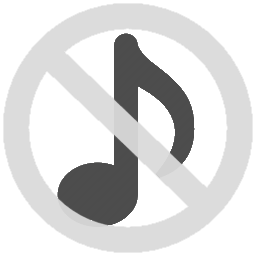
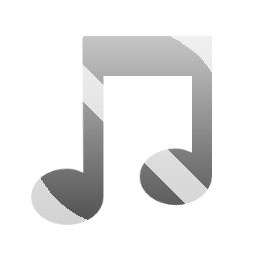
Ajustes Diversos: Imagens Novas, Inclusao de Descrição nos Conteúdos, etc...

diff --git a/Reuniao/Windows/Principal.xaml b/Reuniao/Windows/Principal.xaml
@@ -91,5 +91,32 @@
             </Border>
 
         </Grid>
+
+        <Grid x:Name="gridDescricaoConteudo" Visibility="Collapsed">
+
+            <Border BorderBrush="Gray" BorderThickness="1" />
+            <Grid Background="LightGray" Opacity="0.9" />
+
+            <Border Width="610" Height="120" BorderBrush="Black" BorderThickness="1" Background="White" HorizontalAlignment="Center" VerticalAlignment="Center" />
+            
+            <Grid >
+                <Grid.RowDefinitions>
+                    <RowDefinition />
+                    <RowDefinition Height="30" />
+                    <RowDefinition />
+                </Grid.RowDefinitions>
+                <Grid.ColumnDefinitions>
+                    <ColumnDefinition Width="150" />
+                    <ColumnDefinition Width="*" />
+                    <ColumnDefinition Width="150" />
+                </Grid.ColumnDefinitions>
+                <TextBlock Grid.Row="0" Grid.Column="1" VerticalAlignment="Bottom" Margin="0,0,0,3" FontSize="15" FontWeight="SemiBold" Text="Insira uma Descrição para o Conteudo Inserido:" />
+                <TextBox x:Name="txtDescricaoConteudo" Grid.Row="1" Grid.Column="1" VerticalAlignment="Top" Height="25" FontSize="16" TextAlignment="Center"></TextBox>
+                <Button x:Name="btnConfirmarDescricaoConteudo" Grid.Row="2" Grid.Column="1" HorizontalAlignment="Right" VerticalAlignment="Top" Margin="0,3,0,0" Padding="5" Content="Confirmar" Click="btnConfirmarDescricaoConteudo_Click" />
+            </Grid>
+            
+        </Grid>
+
     </Grid>
+
 </Window>

diff --git a/Reuniao/UserControls/ucConteudo.xaml b/Reuniao/UserControls/ucConteudo.xaml
@@ -55,7 +55,7 @@
         <Border x:Name="gridVideoThumb" BorderBrush="LightGray" BorderThickness="1" Visibility="Hidden">
             <Grid>
                 <Image x:Name="videoThumb" Source="..\Imagens\Thumbs\Video.png" Stretch="Uniform" MaxHeight="200" MaxWidth="200"></Image>
-                <Image x:Name="videoThumbErro" Source="..\Imagens\Thumbs\videoInvalido.png" Stretch="UniformToFill" Visibility="Hidden"/>
+                <Image x:Name="videoThumbErro" Source="..\Imagens\Thumbs\videoInvalido.png" Stretch="Uniform" Visibility="Hidden" />
             </Grid>
         </Border>
         <!-- Video -->
@@ -64,7 +64,7 @@
         <Border x:Name="gridAudioThumb" BorderBrush="LightGray" BorderThickness="1" Visibility="Hidden">
             <Grid >
                 <Image x:Name="audioThumb" Source="..\Imagens\Thumbs\audio.png" Stretch="UniformToFill"></Image>
-                <Image x:Name="audioThumbErro" Source="..\Imagens\Thumbs\audioInvalido.png" Stretch="Uniform" MaxHeight="100" MaxWidth="100" HorizontalAlignment="Center" VerticalAlignment="Center" Visibility="Hidden"/>
+                <Image x:Name="audioThumbErro" Source="..\Imagens\Thumbs\audioInvalido.png" Stretch="Uniform" Visibility="Hidden" />
                 <MediaElement x:Name="meAudio" Visibility="Hidden" />
             </Grid>
         </Border>

diff --git a/Reuniao/Windows/Principal.xaml.cs b/Reuniao/Windows/Principal.xaml.cs
@@ -12,6 +12,8 @@ namespace Reuniao
     {
         #region Propriedades e Atributos
 
+        private DataBase.Reuniao objAtual = null;
+
         #endregion
 
         #region Contrutor Lógico
@@ -104,6 +106,16 @@ namespace Reuniao
             this.GerenciaMenu();
         }
 
+        private void btnConfirmarDescricaoConteudo_Click(object sender, RoutedEventArgs e)
+        {
+            objAtual.Descricao = txtDescricaoConteudo.Text.Trim();
+            new SQLReunioes().Alterar(objAtual);
+
+            lvQuadros.ItemsSource = new SQLReunioes().Listar((DateTime)objAtual.DataReuniao);
+
+            gridDescricaoConteudo.Visibility = Visibility.Hidden;
+        }
+
         private void cbiDataReunioes_SelectionChanged(object sender, SelectionChangedEventArgs e)
         {
             try
@@ -161,10 +173,7 @@ namespace Reuniao
                 {
                     File.Copy(dlg.FileName, string.Format(@"{0}\{1}", Helper.PathVideos, Path.GetFileName(dlg.FileName)), true);
 
-                    //if (MessageBox.Show("Deseja inserir uma ?", "Atenção", MessageBoxButton.YesNo, MessageBoxImage.Question) == MessageBoxResult.Yes)
-                    //    descricao = FileVersionInfo.GetVersionInfo(dlg.FileName).FileDescription;
-
-                    new SQLReunioes().Adicionar(new DataBase.Reuniao()
+                    objAtual = new SQLReunioes().Adicionar(new DataBase.Reuniao()
                     {
                         DataReuniao = dataSelecionada,
                         Tipo = "VIDEO",
@@ -172,6 +181,10 @@ namespace Reuniao
                     });
 
                     lvQuadros.ItemsSource = new SQLReunioes().Listar(dataSelecionada);
+
+                    txtDescricaoConteudo.Text = Path.GetFileNameWithoutExtension(dlg.FileName);
+                    gridDescricaoConteudo.Visibility = Visibility.Visible;
+                    txtDescricaoConteudo.Focus();
                 }
             }
             catch (Exception ex)
@@ -197,7 +210,7 @@ namespace Reuniao
                 {
                     File.Copy(dlg.FileName, string.Format(@"{0}\{1}", Helper.PathAudios, Path.GetFileName(dlg.FileName)), true);
 
-                    new SQLReunioes().Adicionar(new DataBase.Reuniao()
+                    objAtual = new SQLReunioes().Adicionar(new DataBase.Reuniao()
                     {
                         DataReuniao = dataSelecionada,
                         Tipo = "AUDIO",
@@ -205,6 +218,10 @@ namespace Reuniao
                     });
 
                     lvQuadros.ItemsSource = new SQLReunioes().Listar(dataSelecionada);
+
+                    txtDescricaoConteudo.Text = Path.GetFileNameWithoutExtension(dlg.FileName);
+                    gridDescricaoConteudo.Visibility = Visibility.Visible;
+                    txtDescricaoConteudo.Focus();
                 }
             }
             catch (Exception ex)
@@ -230,7 +247,7 @@ namespace Reuniao
                 {
                     File.Copy(dlg.FileName, string.Format(@"{0}\{1}", Helper.PathImagens, Path.GetFileName(dlg.FileName)), true);
 
-                    new SQLReunioes().Adicionar(new DataBase.Reuniao()
+                    objAtual = new SQLReunioes().Adicionar(new DataBase.Reuniao()
                     {
                         DataReuniao = dataSelecionada,
                         Tipo = "IMAGEM",
@@ -238,6 +255,10 @@ namespace Reuniao
                     });
 
                     lvQuadros.ItemsSource = new SQLReunioes().Listar(dataSelecionada);
+
+                    txtDescricaoConteudo.Text = Path.GetFileNameWithoutExtension(dlg.FileName);
+                    gridDescricaoConteudo.Visibility = Visibility.Visible;
+                    txtDescricaoConteudo.Focus();
                 }
             }
             catch (Exception ex)

diff --git a/Reuniao/UserControls/ucConteudo.xaml.cs b/Reuniao/UserControls/ucConteudo.xaml.cs
@@ -129,13 +129,16 @@ namespace Reuniao
                 if (!File.Exists(pathArquivo))
                 {
                     videoThumb.Visibility = System.Windows.Visibility.Collapsed;
+                    videoWatermark.Visibility = System.Windows.Visibility.Collapsed;
+
+                    gridVideoThumb.Visibility = System.Windows.Visibility.Visible;
                     videoThumbErro.Visibility = System.Windows.Visibility.Visible;
 
                     this.conteudoIndisponivel = true;
                     return;
                 }
 
-                this.ToolTip = nome;
+                this.ToolTip = this.Conteudo.Descricao;
 
                 if (this.ConteudoPrincipal)
                 {
@@ -174,7 +177,7 @@ namespace Reuniao
                     return;
                 }
 
-                this.ToolTip = nome;
+                this.ToolTip = this.Conteudo.Descricao;
 
                 if (this.ConteudoPrincipal)
                 {
@@ -202,7 +205,17 @@ namespace Reuniao
                     return;
                 }
 
-                ibImagem.Source = new BitmapImage(new Uri(pathArquivo));
+                this.ToolTip = this.Conteudo.Descricao;
+
+                //Armazena a Imagem em Memória para que o Sistema permita que se apague ela depois
+                BitmapImage biImagem = new BitmapImage();
+                biImagem.BeginInit();
+                biImagem.CacheOption = BitmapCacheOption.OnLoad;
+                biImagem.UriSource = new Uri(pathArquivo);
+                biImagem.EndInit();
+                //
+
+                ibImagem.Source = biImagem;
             }
             catch (Exception ex)
             {
@@ -297,18 +310,24 @@ namespace Reuniao
                         break;
                 }
 
-                if (this.Conteudo.Reproduzido)
-                {
-                    this.gridInfoReproduzido.Visibility = Visibility.Visible;
-                    this.miMarcar.Header = "Marcar como 'Pendente'";
-                    this.MouseDoubleClick -= ucConteudo_MouseDoubleClick;
-                }
-
                 this.PopulaCombos();
 
                 //Habilitar ou Desabilitar Botoes de Sequencia
                 miRetrocederSequencia.IsEnabled = (this.Conteudo.Sequencia != 1);
                 miAvancarSequencia.IsEnabled = !(this.Conteudo.UltimoNaSequencia);
+
+                if (this.Conteudo.Reproduzido)
+                {
+                    this.gridInfoReproduzido.Visibility = Visibility.Visible;
+                    this.miMarcar.Header = "Marcar como 'Pendente'";
+                    this.MouseDoubleClick -= ucConteudo_MouseDoubleClick;
+
+                    //Desabilitar Menus
+                    miRetrocederSequencia.IsEnabled = false;
+                    miAvancarSequencia.IsEnabled = false;
+                    miAlterarConteudo.IsEnabled = false;
+                    miExcluirConteudo.IsEnabled = false;
+                }
             }
             catch (Exception ex)
             {

diff --git a/Reuniao/Classes/DataBase/SQLReunioes.cs b/Reuniao/Classes/DataBase/SQLReunioes.cs
@@ -73,23 +73,26 @@ namespace Reuniao.DataBase
             }
         }
 
-        public void Adicionar(Reuniao objReuniao)
+        public Reuniao Adicionar(Reuniao objReuniao)
         {
             try
             {
                 if (conn.State == ConnectionState.Closed)
                     conn.Open();
 
-                var chaveSeq = new SQLiteCommand("select ifnull(max(chave) + 1, 1) from reuniao", conn).ExecuteScalar();
-                var proxSeq = new SQLiteCommand(string.Format("select ifnull(max(Sequencia) + 1, 1) from reuniao where DataReuniao = date('{0}')", ((DateTime)objReuniao.DataReuniao).ToString("yyyy-MM-dd")), conn).ExecuteScalar();
+                objReuniao.Chave = new SQLiteCommand("select ifnull(max(chave) + 1, 1) from reuniao", conn).ExecuteScalar().ToString();
+                objReuniao.Sequencia = int.Parse(new SQLiteCommand(string.Format("select ifnull(max(Sequencia) + 1, 1) from reuniao where DataReuniao = date('{0}')", ((DateTime)objReuniao.DataReuniao).ToString("yyyy-MM-dd")), conn).ExecuteScalar().ToString());
 
                 new SQLiteCommand(string.Format("insert into reuniao values ({0}, {1}, '{2}', '{3}', '{4}', 'false', '{5}')",
-                                                chaveSeq.ToString(),
-                                                proxSeq.ToString(),
+                                                objReuniao.Chave,
+                                                objReuniao.Sequencia,
                                                 objReuniao.Tipo,
                                                 objReuniao.Valor,
                                                 ((DateTime)objReuniao.DataReuniao).ToString("yyyy-MM-dd"),
                                                 objReuniao.Descricao), conn).ExecuteNonQuery();
+
+                 
+                return objReuniao;
             }
             finally
             {
